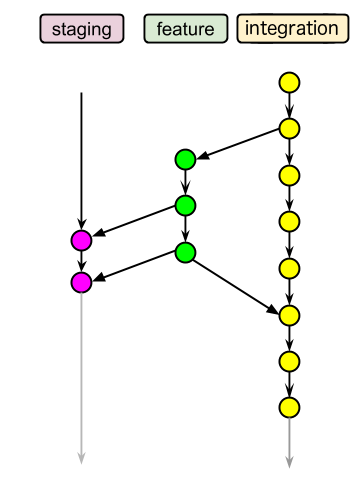
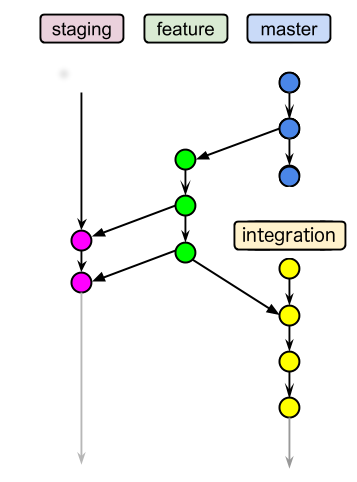
Update GitFlow after new points of view

diff --git a/content/git/flow.md b/content/git/flow.md
@@ -15,8 +15,8 @@ Existe la posibilidad que por motivos de proyecto no exista un entorno de _stagi
 
 ## Consideraciones generales
 
-* **Nunca** hacer commits directos sobre _master_.
-* Las ramas nuevas **siempre** saldrán de _integration_, salvo casos especiales como correcciones de urgencia (_hotfixes_).
+* **Nunca** hacer commits directos sobre _master_, salvo casos especiales de **intervención sobre producción** (_hotfixes, infraestructura_).
+* Las ramas nuevas **siempre** saldrán de _master_
 * Las ramas nuevas **jamás** saldrán de _staging_.
 * La rama de _staging_ **jamás** se mergeará sobre otra rama.
 * Las ramas deberían de mergearse primero a _staging_ para probar su funcionamiento en el servidor de pruebas (en los proyectos que aplique).
@@ -32,22 +32,15 @@ En este apartado describiremos el flujo de trabajo de ramas a seguir en todos lo
 
 **NOTA**: Dada la gran cantidad de proyectos distintos, puede haber clientes que requieran necesidades particulares. Cuando el flujo de trabajo no encaje exactamente con el descrito en esta sección, se deberá tratar como una excepción y tendrá que ser consensuada y autorizada por él, la o los encargados técnicos del proyecto.
 
-
-### Desarrollo
-
-Todos los proyectos tendrán una rama de larga duración _integration_, donde se integrarán todas las funcionalidades antes de llevarlas a _master_
-
-![Desarrollo](/images/git/development.png "Desarrollo")
-
 ### Funcionalidades
 
-Las nuevas funcionaliades saldrán siempre de la rama _integration_. Se podrán ir llevando a _staging_ para probar en los servidores de prueba (si aplica) y una vez listas, con _pull request_ a la rama _integration_.
+Las nuevas funcionaliades saldrán siempre de la rama _master_. Se podrán ir llevando a _staging_ para probar en los servidores de prueba (si aplica) y una vez listas, con _pull request_ a la rama _integration_.
 
 ![Funcionalidades](/images/git/features.png "Funcionalidades")
 
-### Correcciones
+### Intervenciones sobre producción
 
-Las correcciones urgentes deben salir de _master_, probarse en _staging_ (si aplica), volver a _master_ (con _pull request_ y tageo tras despliegue) y actualizarse en _integration_.
+Las correcciones urgentes o cambios que apliquen directamente al entorno de producción (infraestructura) pueden ver su flujo alterado. Probarse en _staging_ (si aplica), volver a _master_ (con _pull request_ y tageo tras despliegue) y actualizarse en _integration_. Es importante que este tipo de intervenciones se actualicen en el resto de ramas comunes.
 
 ![Fixes](/images/git/fixes.png "Fixes")
 
@@ -105,6 +98,17 @@ Ejemplos de como probar los cambios: pasos para replicar un problema, snippets d
 Escribir aquí qué comandos y consideraciones que son necesarios para su despliegue (por ejemplo, borrar caché).
 Si no hace falta ejecutar nada, se puede borrar esta parte.
 ```
+
+#### Vida de una _Pull Request_
+
+Las _pull request_ no son un recordatorio o un log de funcionalidades en desarrollo. Cuando se crea una _pull request_ se debe tener la convicción de que el código cumple con la funcionalidad definida y se generá una discusión para su aprobación.
+
+* No deben de quedar desarrollos pendientes.
+* Se puede trabajar sobre una _pull request_ abierta para mejoras o correcciones.
+* Si fuera necesario hacer cambios o seguir desarrollando, se deberá cancelar la _pull request_, realizar los cambios correspondientes y después volverla a crear.
+* La aprobación de la _pull request_ no significa que se deba mergear automáticamente.
+
+Una vez se tenga la aprobación, el tiempo que debe transcurrir entre su merge con _integration_ y su merge con _master_ y futuro despliegue debe ser el menor tiempo posible, con el fin de evitar colisiones y que estás funcionalidades queden fuera de contexto.
 
 ### _Tags_
 
